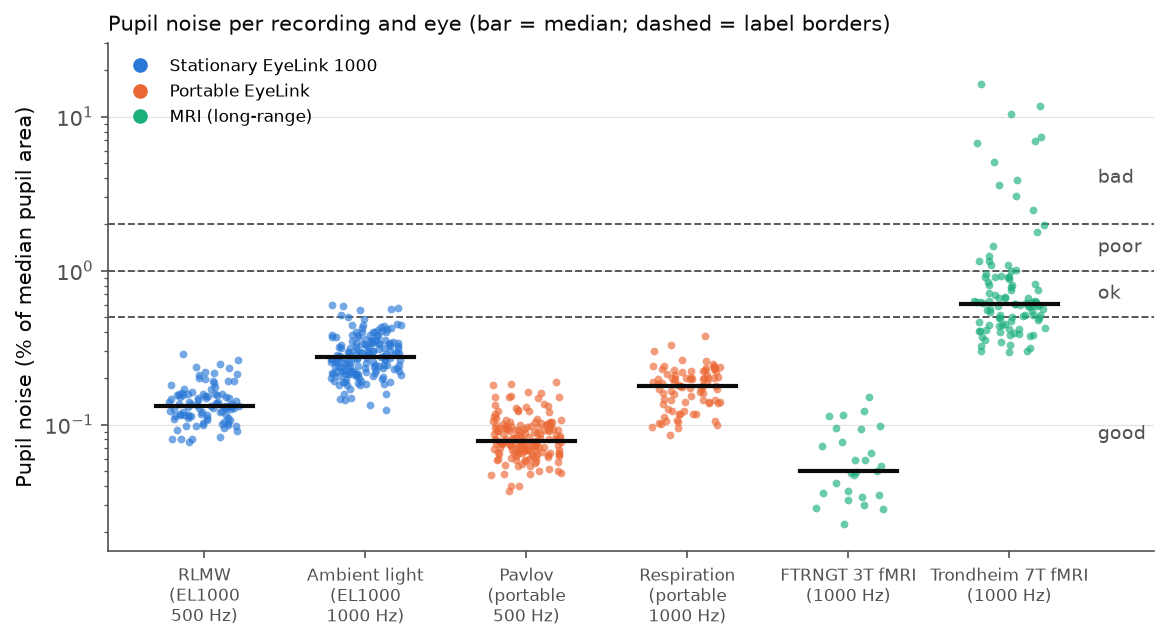
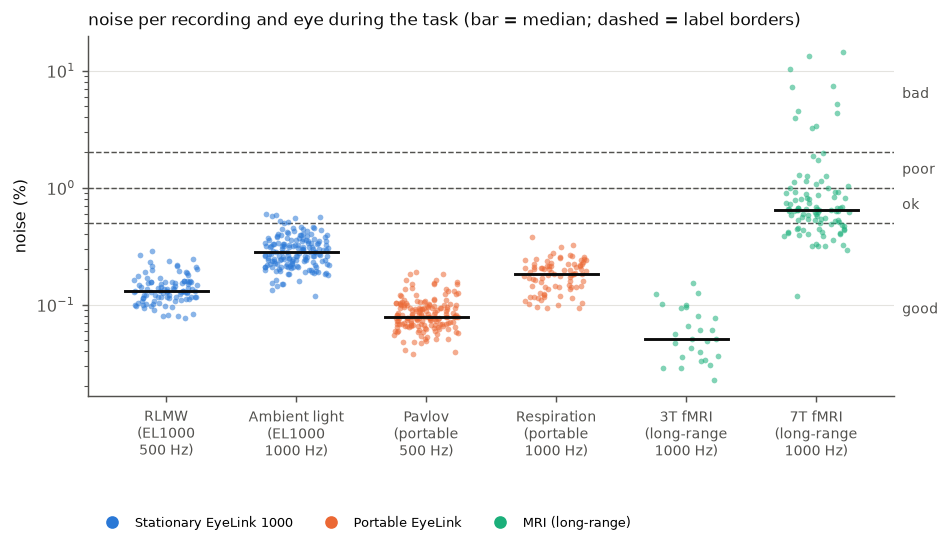
Quality report: base the pupil/gaze thresholds on reference data from six datasets (task periods only) and label jumps; document the distributions.

diff --git a/tests/test_quality.py b/tests/test_quality.py
@@ -77,7 +77,7 @@ class TestQualityReport(unittest.TestCase):
             self.assertNotIn(section, r)
         m = r["pupil"]["left"]["missing_pct"]
         self.assertAlmostEqual(m.value, 6.0)
-        self.assertEqual(m.label, "ok")
+        self.assertEqual(m.label, "good")
         self.assertAlmostEqual(r["pupil"]["left"]["longest_dropout"].value, 1.0)
         self.assertAlmostEqual(r["pupil"]["left"]["dropout_rate"].value, 2 / (20 / 60))
         self.assertEqual(r["pupil"]["right"]["missing_pct"].value, 0)
@@ -88,10 +88,10 @@ class TestQualityReport(unittest.TestCase):
         self.assertIsNone(r["gaze"]["left"]["precision_px"].label)
         # gaze dropouts only reported for eyes without pupil
         self.assertNotIn("dropout_rate", r["gaze"]["left"])
-        self.assertEqual(r.overall, "ok")
+        self.assertEqual(r.overall, "good")
         # smooth data with noise of ~0.1%: no jumps
         self.assertEqual(r["pupil"]["left"]["jump_rate"].value, 0)
-        self.assertIsNone(r["pupil"]["left"]["jump_rate"].label)
+        self.assertEqual(r["pupil"]["left"]["jump_rate"].label, "good")
         self.assertNotIn("jump_rate", r["gaze"]["left"])
 
     def test_jump_rate(self):
@@ -99,6 +99,7 @@ class TestQualityReport(unittest.TestCase):
         d.data["left_pupil"][[1000, 3000, 6000]] = 1200  # 3 spikes in 20 s
         r = d.quality_report()
         self.assertAlmostEqual(r["pupil"]["left"]["jump_rate"].value, 3 / (20 / 60))
+        self.assertEqual(r["pupil"]["left"]["jump_rate"].label, "ok")
         self.assertEqual(r["pupil"]["right"]["jump_rate"].value, 0)
 
     def test_setup_measures(self):
@@ -158,7 +159,7 @@ class TestQualityReport(unittest.TestCase):
         r = d.quality_report(thresholds={"pupil.missing_pct": None})
         self.assertIsNone(r["pupil"]["left"]["missing_pct"].label)
         # defaults are not changed
-        self.assertEqual(DEFAULT_QUALITY_THRESHOLDS["pupil.missing_pct"], (5, 15, 30))
+        self.assertEqual(DEFAULT_QUALITY_THRESHOLDS["pupil.missing_pct"], (10, 20, 40))
         with self.assertRaises(ValueError):
             d.quality_report(thresholds={"pupil.nonsense": (1, 2, 3)})
         with self.assertRaises(ValueError):
@@ -192,7 +193,7 @@ class TestQualityReport(unittest.TestCase):
     def test_summary(self):
         from pypillometry.quality import _summary_text, _html_page
         good = _make_data().quality_report()
-        bad = _make_data(missing=[(1000, 5000)]).quality_report()
+        bad = _make_data(missing=[(1000, 6000)]).quality_report()
         txt = _summary_text(["a", "b"], [good, bad], color=False)
         lines = txt.splitlines()
         self.assertEqual(lines[0], "Summary of 2 files")
@@ -220,12 +221,12 @@ class TestQualityReport(unittest.TestCase):
         self.assertNotIn("percentage of samples without valid pupil data", txt)
         txt = r.to_text(color=False, descriptions=True)
         self.assertIn("percentage of samples without valid pupil data", txt)
-        self.assertIn("labels: good <= 5%, ok <= 15%, poor <= 30%, else bad", txt)
+        self.assertIn("labels: good <= 10%, ok <= 20%, poor <= 40%, else bad", txt)
         self.assertTrue(all(len(line) <= 80 for line in txt.splitlines()
                             if line.startswith("    ")))
         html = r._repr_html_()
         self.assertIn('cursor:help;">missing data</span>', html)
-        self.assertIn("(labels: good &lt;= 5%", html)
+        self.assertIn("(labels: good &lt;= 10%", html)
 
     def test_html_is_escaped(self):
         d = _make_data()

diff --git a/pypillometry/quality.py b/pypillometry/quality.py
@@ -51,17 +51,17 @@ LABELS = ("good", "ok", "poor", "bad")
 #: behind them is explained in the user guide (:doc:`/user_guide/quality`).
 #: Change them to suit your setup and research question.
 DEFAULT_QUALITY_THRESHOLDS = {
-    # pupil (raw data)
-    "pupil.missing_pct": (5, 15, 30),
-    "pupil.dropout_rate": (20, 35, 70),
-    "pupil.longest_dropout": (1, 3, 10),
+    # pupil (raw data); based on the task periods of six reference datasets
+    "pupil.missing_pct": (10, 20, 40),
+    "pupil.dropout_rate": (30, 60, 150),
+    "pupil.longest_dropout": (2, 5, 30),
     "pupil.noise": (0.5, 1, 2),
     "pupil.noise_sd": None,
-    "pupil.jump_rate": None,
+    "pupil.jump_rate": (1, 10, 100),
     # gaze (raw data)
-    "gaze.missing_pct": (5, 15, 30),
-    "gaze.dropout_rate": (20, 35, 70),
-    "gaze.longest_dropout": (1, 3, 10),
+    "gaze.missing_pct": (10, 20, 40),
+    "gaze.dropout_rate": (30, 60, 150),
+    "gaze.longest_dropout": (2, 5, 30),
     "gaze.offscreen_pct": (5, 15, 30),
     "gaze.precision_deg": (0.05, 0.1, 0.2),
     "gaze.precision_px": None,

diff --git a/docs/user_guide/quality.rst b/docs/user_guide/quality.rst
@@ -36,10 +36,11 @@ correlation between the eyes), the bounds are decreasing.
 
 .. important::
 
-   The default thresholds are rules of thumb. Some are based on published
-   data (blink rate), on our own data (noise) or on conventions
-   (calibration), but most are educated guesses, and where exactly a line
-   is drawn is arbitrary. What counts as good data depends on the eye
+   The default thresholds are rules of thumb. They are based on published
+   data (blink rate), on reference data from six of our own datasets
+   (pupil, gaze, binocular and calibration measures, see
+   `Reference data`_) or on conventions (calibration), but where exactly a
+   line is drawn is arbitrary. What counts as good data depends on the eye
    tracker, the population and the research question: a study of slow baseline changes tolerates more
    missing data than one of fast, small responses. Use the labels to find
    recordings that need a closer look, not to exclude data automatically,
@@ -67,6 +68,68 @@ that you can look at their distributions::
 
 By default, blinks are detected first so that the blink and artifact
 measures are included.
+
+
+Reference data
+--------------
+
+The thresholds for the raw pupil and gaze measures, the agreement between
+the eyes and the calibration were checked against the distributions of
+these measures in six datasets recorded with EyeLink eye trackers in
+different setups (650 eye-recordings from 390 files):
+
+====================  ==================================  =======  =====  ==========
+dataset               eye tracker                         rate     files  eyes
+====================  ==================================  =======  =====  ==========
+RLMW                  EyeLink 1000 (stationary)           500 Hz   50     both
+Ambient light         EyeLink 1000 (stationary)           1000 Hz  83     both
+Pavlov                portable EyeLink                    500 Hz   86     both
+Respiration           portable EyeLink                    1000 Hz  43     both
+3T fMRI               EyeLink long-range, 3T MRI scanner  1000 Hz  27     one
+7T fMRI               EyeLink long-range, 7T MRI scanner  1000 Hz  101    one
+====================  ==================================  =======  =====  ==========
+
+All datasets recorded pupil area. The only preprocessing was that the
+periods outside of the task were cut out of each recording: the time before
+the experiment started (e.g., instructions, practice, a resting-state or
+adaptation period), breaks between blocks and the time after the end. These
+periods were identified from the triggers of each study and removed 1--33%
+of the recording time (median per dataset); periods in which the
+participant is away or not looking at the screen otherwise dominate
+measures such as the longest dropout. No blinks were detected, so missing
+data and dropouts include the blinks.
+
+The table shows percentiles of each measure in the five datasets from the
+lab setups and the 3T scanner (549 eye-recordings, 259 for the binocular
+measures), the share of recordings that get each label with the default
+thresholds, and the median of the 7T dataset, whose data quality is clearly
+different (noisier and with more artifacts):
+
+=================================  =====  =====  =====  =====  =====  ======================  ======
+measure                            P5     P25    P50    P75    P95    good / ok / poor / bad  7T P50
+=================================  =====  =====  =====  =====  =====  ======================  ======
+``pupil.missing_pct`` (%)          1.0    3.4    5.8    10.1   28.4   74 / 16 / 7 / 2         13.0
+``pupil.dropout_rate`` (/min)      5.9    17.4   28.9   53.1   174    52 / 28 / 15 / 5        104
+``pupil.longest_dropout`` (s)      0.32   0.56   0.92   2.19   57.6   74 / 11 / 9 / 6         1.10
+``pupil.noise`` (%)                0.056  0.092  0.143  0.236  0.383  99 / 1 / 0 / 0          0.65
+``pupil.jump_rate`` (/min)         0      0.11   0.21   0.61   70.6   80 / 12 / 3 / 5         64
+``gaze.offscreen_pct`` (%)         0.01   0.19   0.62   1.67   4.99   95 / 4 / 1 / 0          0.11
+``calibration.mean_error`` (deg)   0.26   0.34   0.42   0.53   0.78   70 / 28 / 1 / 0         --
+``calibration.max_error`` (deg)    0.47   0.63   0.77   0.97   1.62   77 / 16 / 4 / 3         --
+``binocular.pupil_correlation``    0.88   0.93   0.97   0.99   0.997  91 / 8 / 1 / 0          --
+=================================  =====  =====  =====  =====  =====  ======================  ======
+
+The thresholds were chosen so that typical recordings from standard lab
+setups are "good" (usually about three quarters of them) and "bad" is left
+for the few recordings with clear problems. The percentiles of each dataset
+are in
+:download:`quality_reference_task_datasets.csv <../data/quality_reference_task_datasets.csv>`
+(pooled: :download:`quality_reference_task.csv <../data/quality_reference_task.csv>`).
+Six datasets from one manufacturer cannot cover all eye trackers, settings
+and populations, so check the distributions for your own setup (see
+above). Because periods without a task change several measures a lot, run
+the report on the task periods (e.g., after cutting out breaks) when you
+compare recordings.
 
 
 Blink rate
@@ -127,51 +190,78 @@ consider modeling or removing the blink-locked response (Yoo et al., 2021).
 Pupil
 -----
 
-``pupil.missing_pct`` ``(5, 15, 30)``
+``pupil.missing_pct`` ``(10, 20, 40)``
     Blinks alone make about 3--5% of the samples missing at a normal blink
-    rate (10 blinks/min of ~300 ms each). Up to 5% is therefore what a
-    well-tracked recording looks like, and up to 15% is still common.
-    Above 30%, a large part of the data has to be interpolated or is lost,
-    and many studies would consider excluding the trial or participant.
+    rate (10 blinks/min of ~300 ms each). In the reference data (see
+    `Reference data`_), the median is about 6% and three quarters of the
+    recordings from lab setups have up to 10% missing data: this is the
+    "good" range. Up to 20% is still common, also in good setups. Above 40%,
+    a large part of the data has to be interpolated or is lost, and many
+    studies would consider excluding the trial or participant.
 
-``pupil.dropout_rate`` ``(20, 35, 70)``
-    In raw data, most dropouts are blinks, so the bounds are the same as for
-    the blink rate. More dropouts than blinks can explain point to unstable
-    tracking.
+    .. image:: ../images/quality_ref_missing.png
+       :alt: Missing pupil data per recording and eye in six datasets, with
+             the label borders at 10, 20 and 40%.
 
-``pupil.longest_dropout`` ``(1, 3, 10)`` seconds
-    Blinks rarely last longer than 0.5 s. A dropout longer than 1 s is
-    something else (eyes closed, looking away, head movement), and gaps of
-    several seconds cannot be interpolated sensibly and may take out whole
-    trials.
+``pupil.dropout_rate`` ``(30, 60, 150)``
+    In raw data, most dropouts are blinks. Up to 30 dropouts/min is within
+    the range of normal blink rates (see `Blink rate`_) and the median of
+    the reference data (29/min). Rates above 60/min (about the top 20% of
+    the reference data) are more than blinks can explain and point to
+    unstable tracking; above 150/min (the top 5%), the tracking is lost
+    again and again.
+
+    .. image:: ../images/quality_ref_dropout_rate.png
+       :alt: Dropouts per minute per recording and eye in six datasets, with
+             the label borders at 30, 60 and 150 per minute.
+
+``pupil.longest_dropout`` ``(2, 5, 30)`` seconds
+    Blinks rarely last longer than 0.5 s, and gaps of 1--2 s can still be
+    interpolated. Dropouts of several seconds (eyes closed, looking away,
+    head movement) cannot be interpolated sensibly and may take out whole
+    trials; a dropout longer than 30 s means that the eye was lost for a
+    substantial time. Three quarters of the recordings in the reference
+    data have no dropout longer than 2 s. This measure depends strongly on
+    what the recording contains: breaks in which the participant leaves the
+    chin rest or closes the eyes give dropouts of minutes. Compute it on the
+    task periods only.
+
+    .. image:: ../images/quality_ref_longest_dropout.png
+       :alt: Longest dropout per recording and eye in six datasets, with the
+             label borders at 2, 5 and 30 s.
 
 ``pupil.noise`` ``(0.5, 1, 2)`` % of the median pupil size
-    The bounds are based on the noise of 6 datasets recorded with different
-    eye trackers and settings: stationary EyeLink 1000 systems, portable
-    EyeLink systems and long-range EyeLink systems in a 3T and a 7T MRI
-    scanner. The noise was computed with the quality report from the raw
-    data (pupil area) of each recording and eye.
+    The bounds are based on the noise in the reference data (see
+    `Reference data`_): stationary EyeLink 1000 systems, portable EyeLink
+    systems and long-range EyeLink systems in a 3T and a 7T MRI scanner.
+    The noise was computed with the quality report from the raw data (pupil
+    area) of the task periods of each recording and eye.
 
     .. image:: ../images/pupil_noise_datasets.png
        :alt: Pupil noise per recording and eye in six datasets, on a log
              scale, with the label borders at 0.5, 1 and 2%.
 
     In the lab setups and the 3T scanner, the medians of the datasets are
-    between about 0.05% and 0.3%, and almost all recordings are below 0.5%:
-    this is the "good" range. In the 7T scanner, the median is about 0.6%
-    and the spread is much larger, with some recordings far above 2%. The
-    "ok" range (up to 1%) covers what a difficult setup typically gives;
-    above 1% ("poor") and especially above 2% ("bad"), the noise is unusual
-    even for such setups, and the recording should be checked.
+    between about 0.05% and 0.3%, and almost all recordings (99%, maximum
+    0.6%) are below 0.5%: this is the "good" range. In the 7T scanner, the
+    median is about 0.65% and the spread is much larger, with about 10% of
+    the recordings above 2%. The "ok" range (up to 1%) covers what a
+    difficult setup typically gives; above 1% ("poor") and especially above
+    2% ("bad"), the noise is unusual even for such setups, and the recording
+    should be checked.
 
     The noise also depends on the settings. In both pairs of datasets
     recorded with the same kind of tracker, the 1000 Hz data are noisier
     than the 500 Hz data (by about a factor of 2), and the tracker's filter
-    level matters as well. All datasets recorded pupil area; in percent, the
-    noise of the diameter is about half that of the area, so for diameter
-    data, halving the bounds is a reasonable start. Six datasets cannot
-    cover all eye trackers and settings, so treat the bounds as a starting
-    point.
+    level matters as well. In the clean setups, the noise is often as small
+    as the resolution of the pupil values allows (the tracker stores pupil
+    area as whole numbers); there, smaller values mostly mean a larger pupil
+    rather than less noise, so the measure separates noisy from clean
+    recordings but does not rank clean recordings. All datasets recorded
+    pupil area; in percent, the noise of the diameter is about half that of
+    the area, so for diameter data, halving the bounds is a reasonable
+    start. Six datasets cannot cover all eye trackers and settings, so treat
+    the bounds as a starting point.
 
     To see what is typical for your own setup, the script
     :download:`collect_pupil_noise.py <../scripts/collect_pupil_noise.py>`
@@ -184,7 +274,7 @@ Pupil
             --note "lab A, EyeLink 1000, chin rest" data/*.edf
 
 
-``pupil.jump_rate`` (no label) jumps per minute
+``pupil.jump_rate`` ``(1, 10, 100)`` jumps per minute
     The number of changes from one sample to the next that are larger than
     5% of the median pupil size. Physiological changes of the pupil are much
     slower, so such jumps are artifacts, e.g., distortions of the pupil
@@ -192,8 +282,18 @@ Pupil
     counts once. Changes within 50 ms of missing data are ignored, because
     the edges of every blink would otherwise count as jumps (the jump size
     and the margin are set by ``pypillometry.quality.JUMP_PCT`` and
-    ``JUMP_DROPOUT_MARGIN_MS``). There are no thresholds yet: they will be
-    set once reference data from several datasets are available.
+    ``JUMP_DROPOUT_MARGIN_MS``).
+
+    In the reference data from lab setups, jumps are rare (median 0.2/min,
+    69--99% of the recordings of each dataset at most 1/min). In both MRI
+    scanners, they are frequent (median 64/min at 7T and about 200/min at
+    3T), also in the 3T data whose noise is the lowest of all datasets: the
+    jumps catch artifacts that the noise measure, which is robust to single
+    outliers, does not see.
+
+    .. image:: ../images/quality_ref_jump_rate.png
+       :alt: Jumps per minute per recording and eye in six datasets, with
+             the label borders at 1, 10 and 100 per minute.
 
 
 Gaze
@@ -205,9 +305,13 @@ Gaze
 ``gaze.offscreen_pct`` ``(5, 15, 30)`` % of valid samples
     In a screen experiment, participants should look at the screen.
     Off-screen samples come from looking away or from a calibration that is
-    off. The bounds are the same as for missing data, because these samples
-    are usually unusable as well. This needs the screen size (see
-    :meth:`~GazeData.set_experimental_setup`).
+    off, and they are usually unusable. In the reference data, the median is
+    0.6% and 95% of the recordings from lab setups are below 5%. This needs
+    the screen size (see :meth:`~GazeData.set_experimental_setup`).
+
+    .. image:: ../images/quality_ref_offscreen.png
+       :alt: Off-screen gaze per recording and eye in six datasets, with the
+             label borders at 5, 15 and 30%.
 
 ``gaze.precision_deg`` ``(0.05, 0.1, 0.2)`` degrees
     The median distance between consecutive samples (sample-to-sample
@@ -226,7 +330,16 @@ Both eyes
 ``binocular.pupil_correlation`` ``(0.9, 0.8, 0.6)``
     The pupils of both eyes respond together (the light reflex is
     consensual), so their sizes should be very highly correlated. A lower
-    correlation usually means that one eye was tracked poorly.
+    correlation usually means that one eye was tracked poorly. In the
+    reference data, the median is 0.97 and 91% of the binocular recordings
+    are at or above 0.9. The correlation also depends on how much the pupil
+    changes during a recording: with large, light-driven changes it is
+    close to 1 (Ambient light), with small changes it is lower although
+    both eyes are tracked well.
+
+    .. image:: ../images/quality_ref_pupil_correlation.png
+       :alt: Correlation of the left and right pupil per binocular recording
+             in four datasets, with the label borders at 0.9, 0.8 and 0.6.
 
 ``binocular.gaze_disparity_deg`` ``(1, 2, 3)`` degrees
     Both eyes look at the same point, apart from small vergence differences.
@@ -255,7 +368,18 @@ Calibration
 ``calibration.mean_error`` ``(0.5, 1.0, 1.5)``, ``calibration.max_error`` ``(1.0, 1.5, 2.0)`` degrees
     The first two bounds follow the Eyelink validation ratings: GOOD with a
     mean error up to 0.5° and a maximum error up to 1°, FAIR up to 1° and
-    1.5°. The third bound (between "poor" and "bad") is our choice.
+    1.5°. The third bound (between "poor" and "bad") is our choice. In the
+    reference data (five datasets with calibration data), the median mean
+    error is 0.42° and the median maximum error 0.77°; 70% and 77% of the
+    validations are "good", and 1% and 7% are "poor" or "bad".
+
+    .. image:: ../images/quality_ref_calibration_mean.png
+       :alt: Mean validation error per recording and eye in five datasets,
+             with the label borders at 0.5, 1 and 1.5 degrees.
+
+    .. image:: ../images/quality_ref_calibration_max.png
+       :alt: Maximum validation error per recording and eye in five
+             datasets, with the label borders at 1, 1.5 and 2 degrees.
 
 
 References
